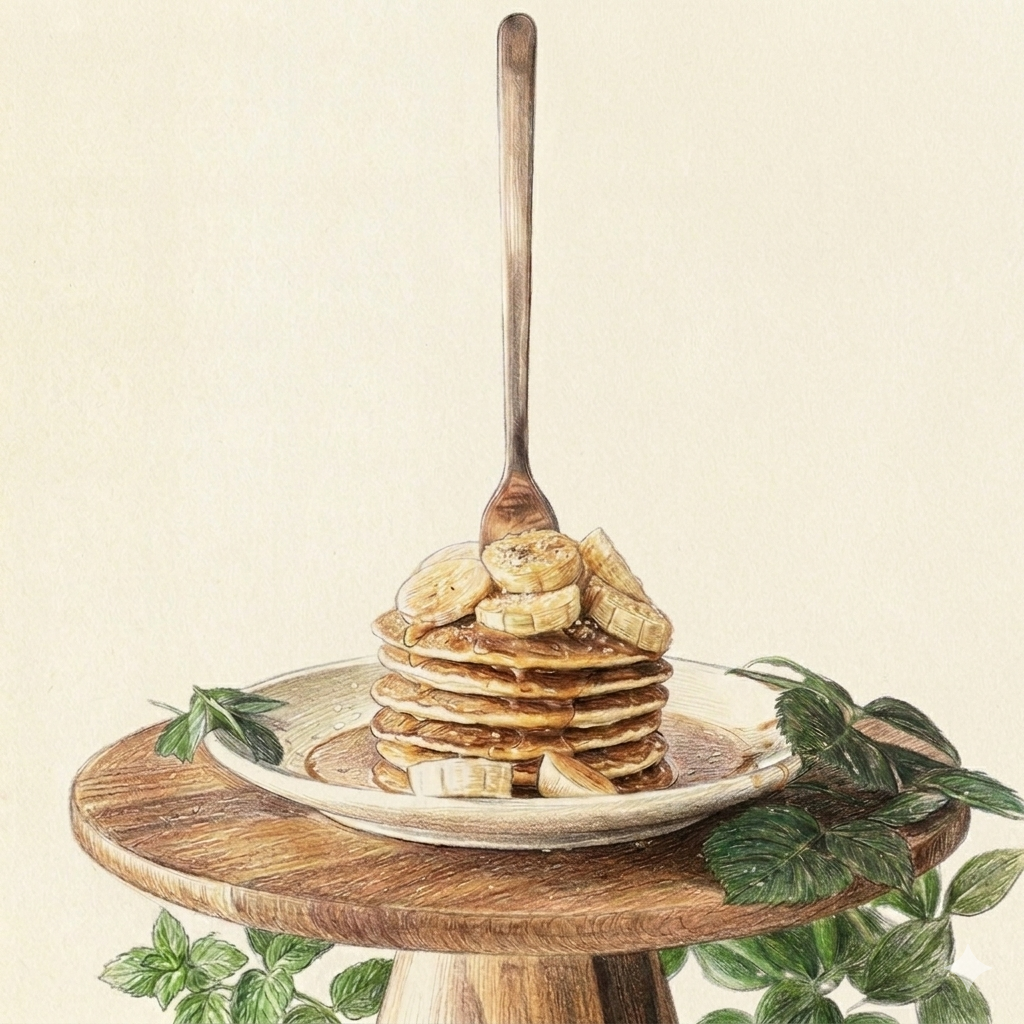
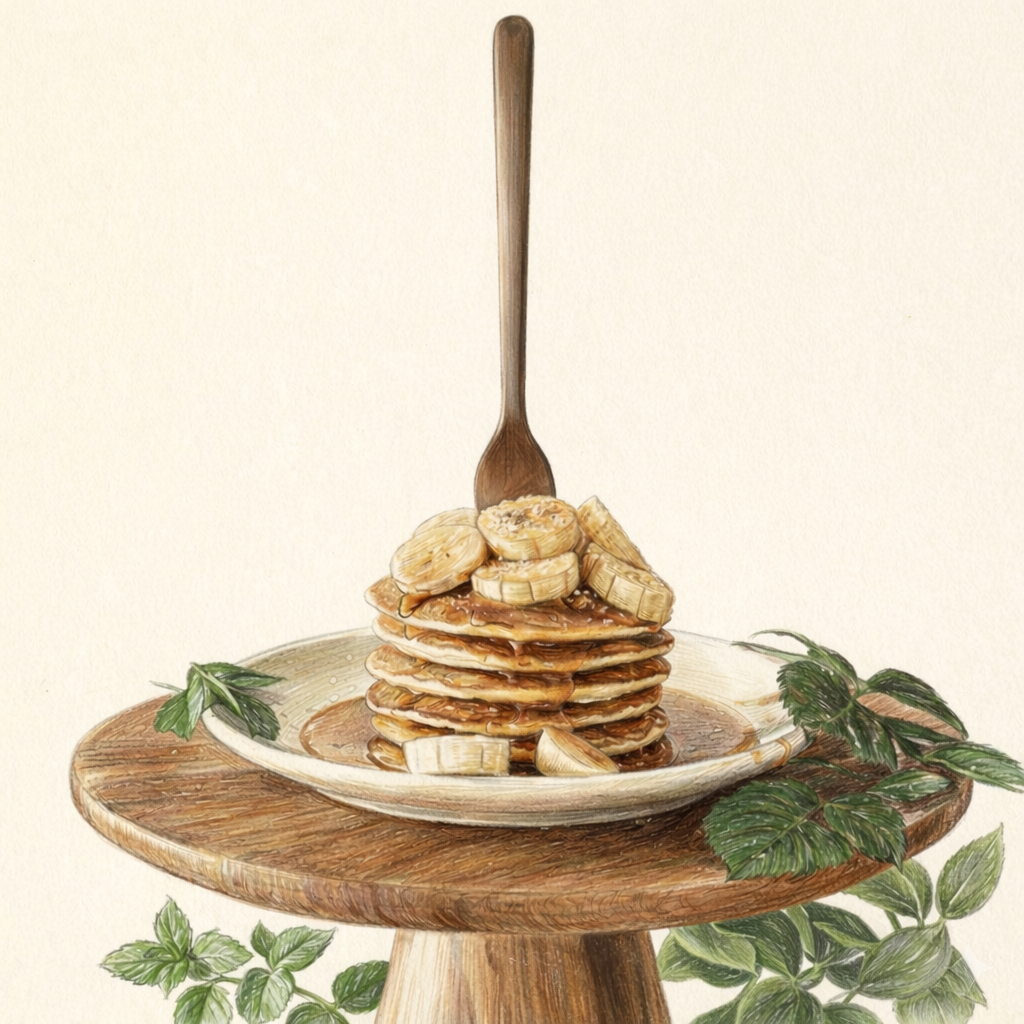
image bug fix

Changed region(s): [[0.0625, 0.0, 1.0, 1.0]]

diff --git a/src/pages/About.jsx b/src/pages/About.jsx
@@ -24,7 +24,7 @@ function About() {
       {/* <div >Since 1995</div> */}
       <div className="about__image">
         <ScribbleReveal
-          src="/public/img/facade.png"
+          src="/img/facade.png"
           className="about__image--img"
           alt="Coffee machine"
         />